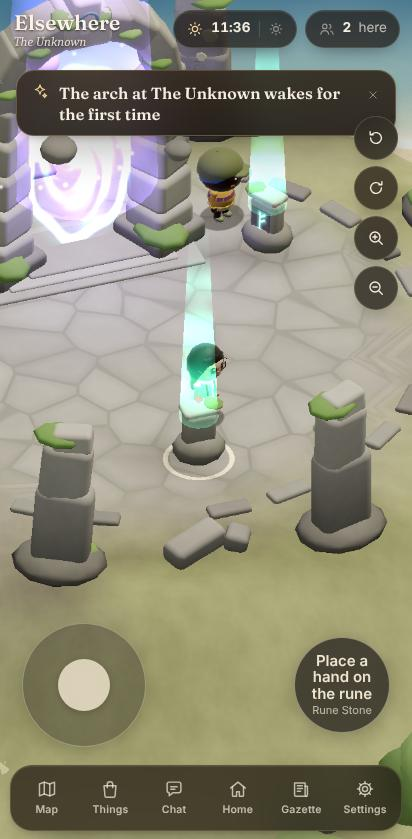
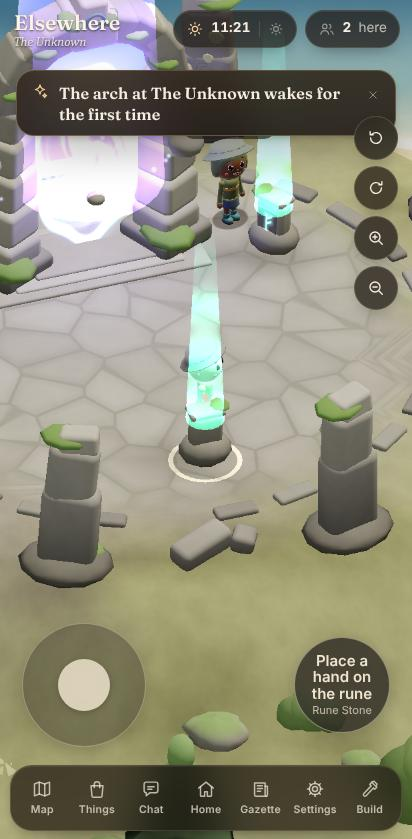
WIP snapshot: building round 2 in progress
Claude-Session: https://claude.ai/code/session_01FyN1vNSEQg5PzZMCp1zjZW

diff --git a/client/src/build/meshes2.ts b/client/src/build/meshes2.ts
@@ -79,7 +79,7 @@ function chimneyPiece(B: GeoBuilder, c: C): void {
 /** Where a text piece's lettering goes (local frame). `back` = also on the reverse. */
 export const TEXT_FACES: Partial<Record<PieceKind, { width: number; height: number; y: number; z: number; back?: boolean; font: number }>> = {
   name_board: { width: 1.6, height: 0.38, y: 2.33, z: WALL_HALF + 0.085, font: 64 },
-  name_hanging: { width: 0.72, height: 0.34, y: 1.96, z: WALL_HALF + 0.56, back: true, font: 56 },
+  name_hanging: { width: 0.72, height: 0.34, y: 1.96, z: WALL_HALF + 0.597, back: true, font: 56 },
   name_plaque: { width: 0.52, height: 0.22, y: 1.62, z: WALL_HALF + 0.055, font: 52 },
 };
 
@@ -500,8 +500,9 @@ export const GLOW_AT: Partial<Record<PieceKind, { y: number; z: number; size: nu
   table_lamp: { y: 0.27, z: 0, size: 0.55 },
   fireplace: { y: 0.3, z: 0.2, size: 1.0 },
   stove: { y: 0.42, z: 0.36, size: 0.6 },
-  name_board: { y: 2.34, z: WALL_HALF + 0.35, size: 0.7 },
-  name_hanging: { y: 1.96, z: WALL_HALF + 0.75, size: 0.6 },
-  name_plaque: { y: 1.62, z: WALL_HALF + 0.3, size: 0.45 },
+  // Signs are lit from just above the board (a halo on the lettering would wash it out).
+  name_board: { y: 2.74, z: WALL_HALF + 0.26, size: 0.5 },
+  name_hanging: { y: 2.42, z: WALL_HALF + 0.62, size: 0.42 },
+  name_plaque: { y: 1.94, z: WALL_HALF + 0.18, size: 0.32 },
 };
 void CONFIG;

diff --git a/client/src/ui/Hud.tsx b/client/src/ui/Hud.tsx
@@ -213,12 +213,14 @@ function Prompt() {
   const playerPrompt = useUiStore((s) => s.playerPrompt);
   const panel = useUiStore((s) => s.panel);
   const typing = useUiStore((s) => s.textInputFocused);
+  // The build dock sits where the prompt would: building owns the bottom of the screen.
+  const building = useBuildStore((s) => s.mode !== 'off');
   const touch = useIsTouch();
   // On touch the player system's thumb action button carries the prompt; don't duplicate it.
   const touchControls = useTouchControlsVisible();
   const liveLabel = useGameStore((s) => (prompt ? liveStationLabel(s, prompt.interactableId, prompt.label) : ''));
   const p = prompt ? { label: liveLabel || prompt.label, name: prompt.name } : playerPrompt ? { label: playerPrompt.label, name: playerPrompt.name } : null;
-  if (!p || touchControls || (panel && READING_PANELS.has(panel.kind))) return null;
+  if (!p || building || touchControls || (panel && READING_PANELS.has(panel.kind))) return null;
   return (
     <button
       type="button"

diff --git a/client/src/build/build.css b/client/src/build/build.css
@@ -231,11 +231,11 @@
   .build-tile__img, .build-tile__img img { width: 48px; height: 48px; }
   .build-bar { flex-wrap: wrap; row-gap: 6px; }
   .build-actions { margin-left: 0; width: 100%; gap: 0; order: 3; }
-  .build-act { width: 46px; flex: none; }
-  .build-act--quiet { width: 30px; }
-  .build-place { margin-left: 0; padding: 0 14px; }
-  .build-done { margin-left: 6px; padding: 0 13px; }
-  .build-more { margin-right: auto; }
+  .build-act { width: 42px; flex: none; }
+  .build-act--quiet { width: 28px; }
+  /* Place takes what is left of the row (Done always fits on a 360-390 px phone). */
+  .build-place { margin: 0 6px 0 2px; padding: 0 10px; flex: 1 1 auto; min-width: 0; }
+  .build-done { margin-left: auto; padding: 0 13px; flex: none; }
   .build-sign { flex-basis: 100%; order: 2; }
   .build-swatches { order: 1; }
   .build-status { font-size: 12.5px; }

diff --git a/README.md b/README.md
@@ -345,20 +345,33 @@ in `client/src/build/`.
   500, …), the first roof that closes walls with a doorway, and a name sign on a finished house
   (walls, doorway, roof): "Ivy named their house “Fern Cottage”" — only real events. Walking up to a
   named house shows "<name> · built by <player>".
-- **Rendering:** one instanced mesh per piece kind + style + material (40-50 draw calls for 2,000
-  pieces), shadows like the world; roofs and upper storeys over or next to you dissolve (dithered,
+- **Rendering:** one instanced mesh per piece kind + style + material (~110 draw calls for 2,000
+  mixed pieces of ~40 kinds), shadows like the world; roofs and upper storeys over or next to you dissolve (dithered,
   their shadow too), and tall walls between the camera and you thin out.
 
 Measured with `scripts/build-scale.mts` (production build, one machine, headless Chromium with
-**software** WebGL — frame times say nothing about real GPUs): 2,000 pieces seeded through the real
-server path in 5.5 s (validation 0.14 ms average, 2 ms max per placement); a joining browser got
-them as a 4-chunk snapshot of 74 KB on the websocket (90 KB as JSON; 9 KB for an empty world)
-applied in 9 ms; idle websocket traffic stayed ~100-150 B/s with or without pieces (pieces are not
-in the Colyseus state); the build layer drew 47 calls / 0.58 M triangles (whole frame 133 calls /
-1.0 M triangles vs 83 / 0.42 M empty; frame time 407 ms vs 288 ms in software rendering); with 30
-protocol clients walking, the server's event-loop delay p99 was 12.9 ms with 2,000 pieces vs 14.4 ms
-with none (timer resolution ~10 ms); `resolveMovement` next to pieces ~70 µs per 1.6 m move; a
-restart loaded all 2,000 pieces and was healthy in 0.65 s.
+**software** WebGL — frame times say nothing about real GPUs). Round 2 mix: huts on a grid (half of
+them two storeys) each under one house roof (gable or hip, both pitches) with a table, a table lamp
+on it, a chair, a picture, a name board, a lamp, a crate, a fence and a planter, then yards of floor
+tiles carrying sofas, beds, bookshelves, stoves, fireplaces, rugs, barrels…, then pillars and lamps;
+all clearable plants cleared first. 2,000 pieces seeded through the real server path in 5.2 s
+(validation 0.19 ms average, 2.6 ms max per placement); a joining browser got them as a 4-chunk
+snapshot of 75 KB on the websocket (93 KB as JSON; 9 KB for an empty world) applied in 16 ms; idle
+websocket traffic stayed ~30-60 B/s with or without pieces (pieces are not in the Colyseus state);
+the build layer drew 113 calls / 0.70 M triangles in 89 instanced groups (whole frame 240 calls /
+1.16 M triangles vs 83 / 0.41 M empty; frame time 347 ms vs 247 ms in software rendering; 25 sign
+text meshes, 256 night halos); with 30 protocol clients walking, the server's event-loop delay p99
+was 12.9 ms with 2,000 pieces vs 12.8 ms with none (timer resolution ~10 ms); `resolveMovement`
+next to pieces ~87 µs per 1.6 m move; a restart loaded all 2,000 pieces and was healthy in 0.62 s.
+(Round 1, walls/floors/roof tiles only: 47 calls / 0.58 M triangles for the build layer.)
+
+Triangles per round-2 piece (one instance, from the client's templates): house roof 4x6 m gable
+3,232 / hip 854, chimney 308, name board 96, hanging sign 116, plaque 24, bed 720, sofa 804,
+armchair 588, stool 124, desk 120, dining table 84, bookshelf 528, dresser 324, kitchen counter 84,
+stove 304, sink 92, fireplace 264, bathtub 296, chest 156, barrel 288, floor lamp 96, table lamp 72,
+tall plant 652, small plant 176, wall shelf 148, picture 96, wall clock 272, mirror 24, curtains 120,
+round rug 288, shop counter 136, record player 136. House roofs are instanced per style + size + shape
+(roofs of the same dimensions share one instanced mesh), the rest per kind + style.
 
 ## Rendering cost (measured)
 
